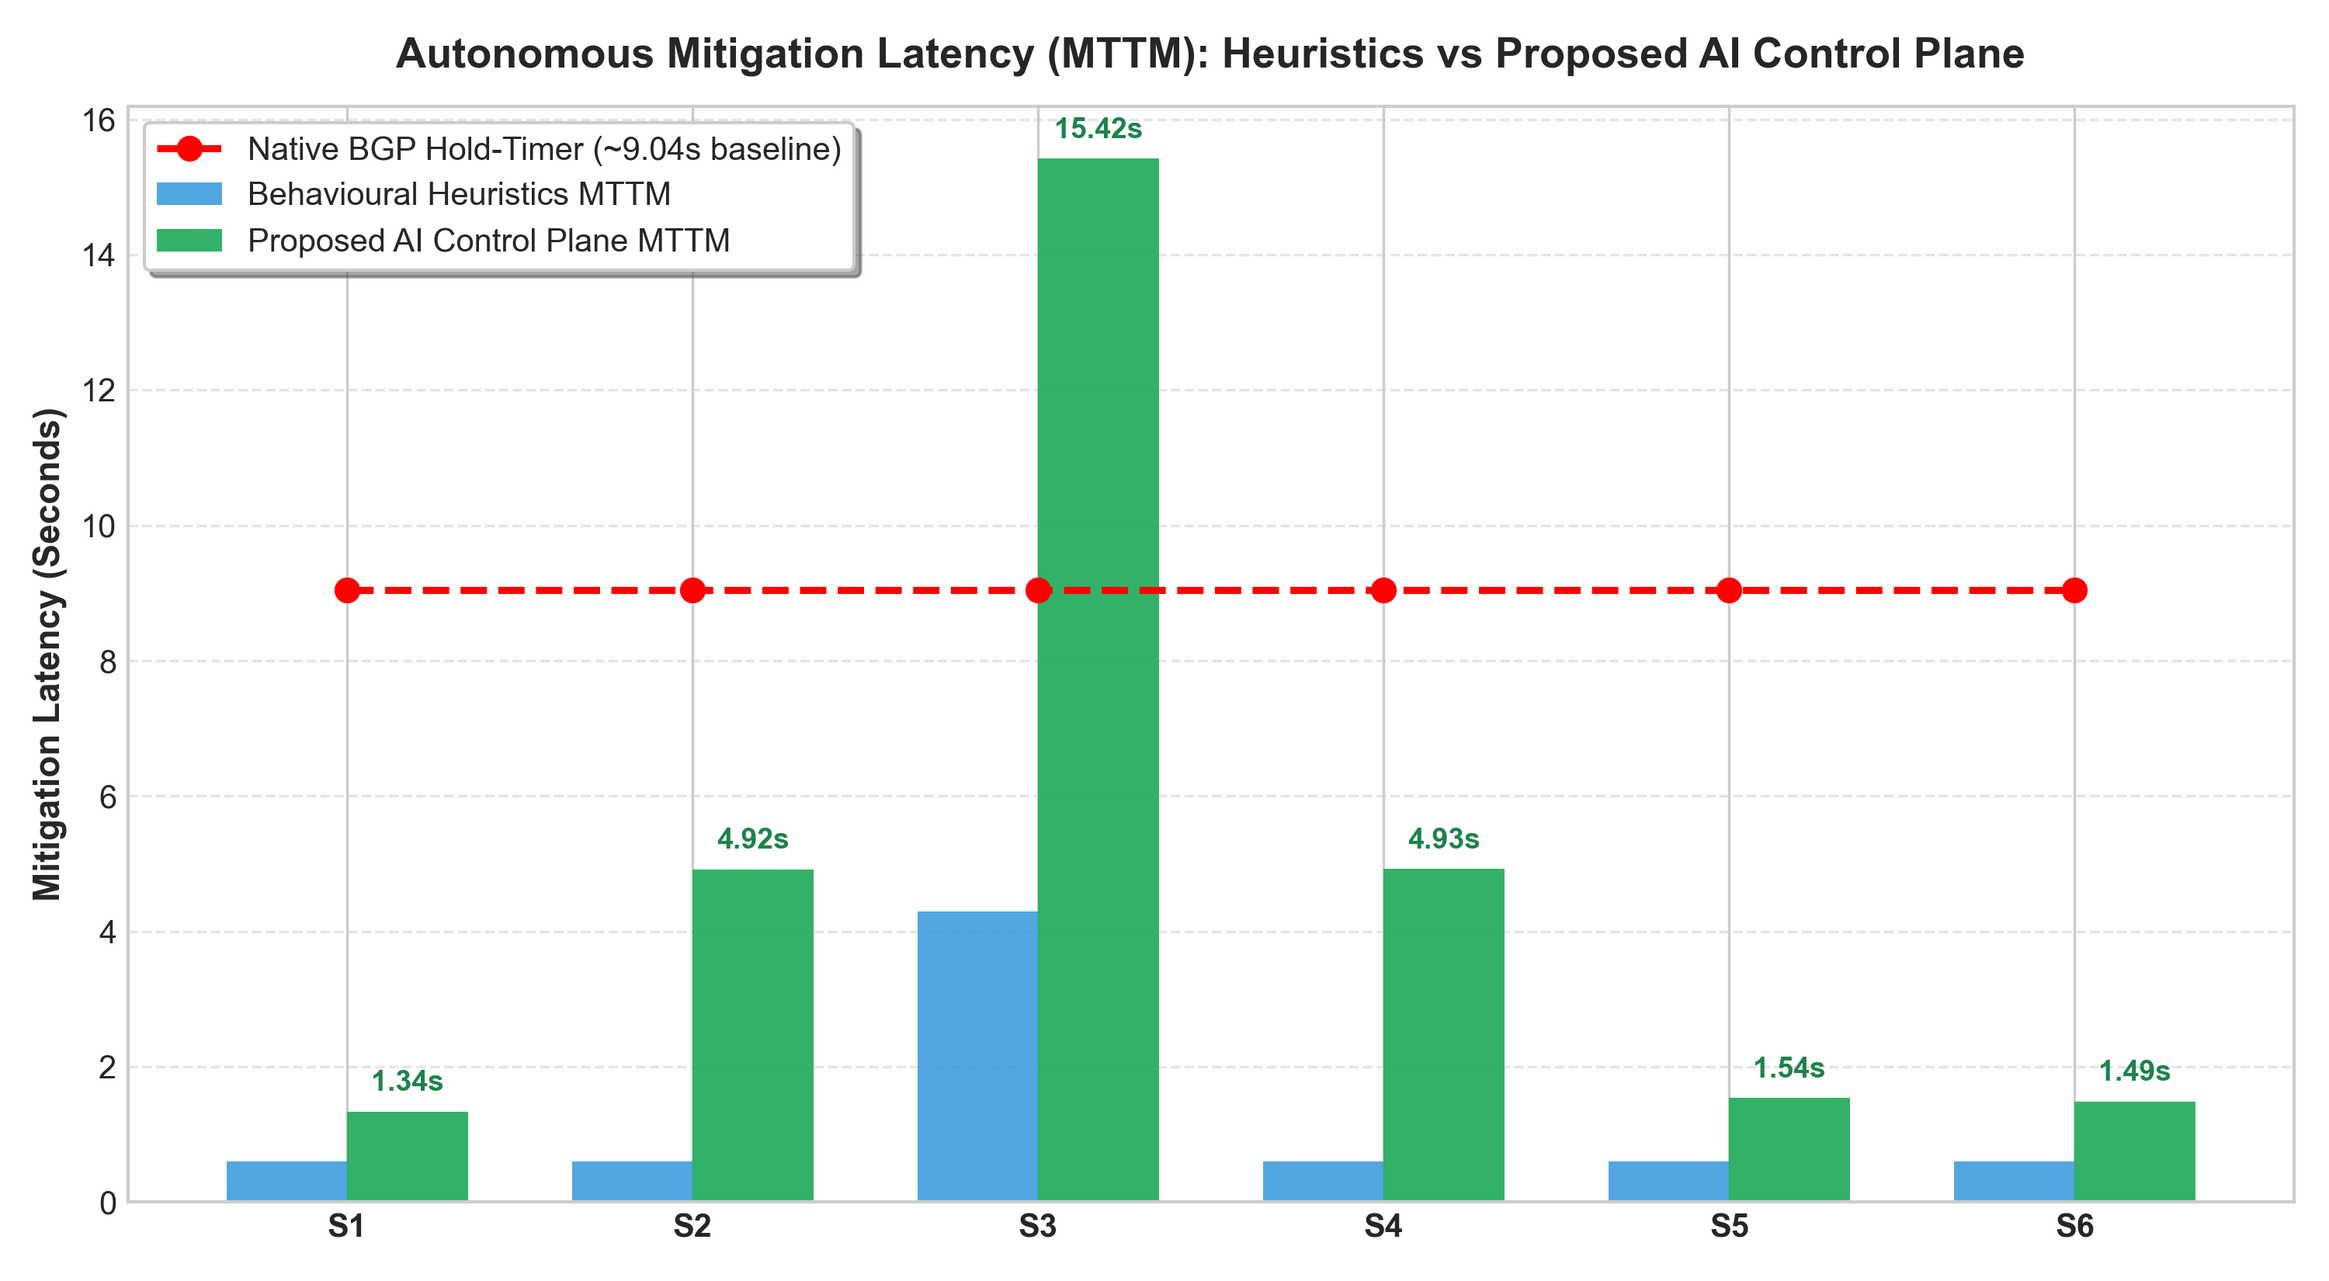
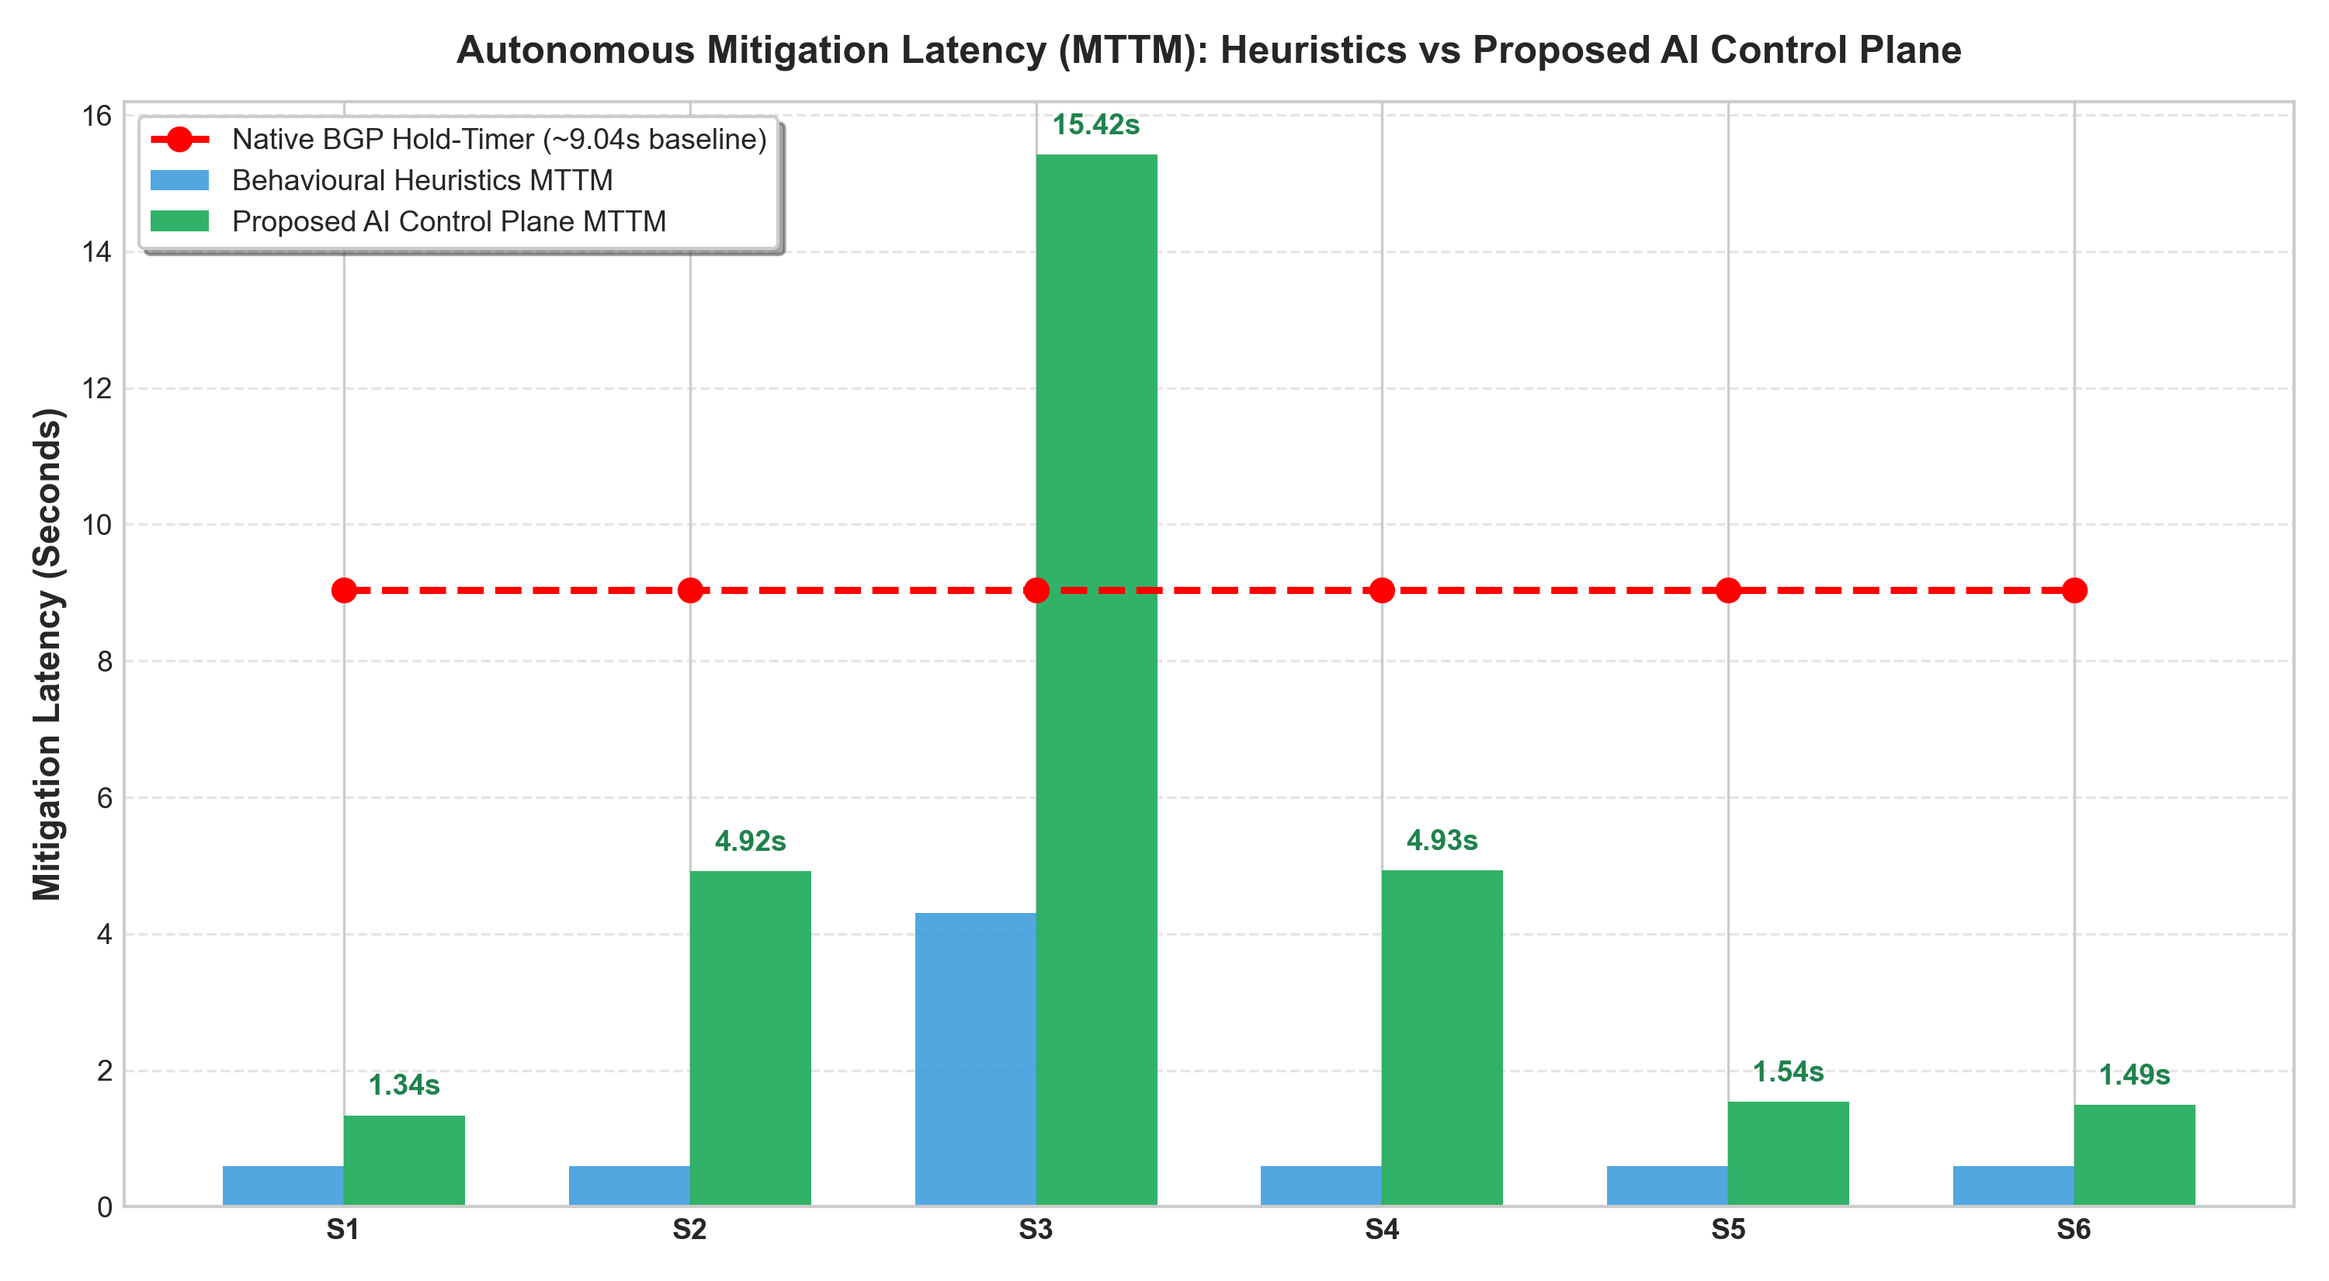
Visualizations: Expand figure suite to 6 publication-quality charts covering trust radar, feature importance, convergence distribution, and policy state machine

diff --git a/scripts/plot_attack_evaluation.py b/scripts/plot_attack_evaluation.py
@@ -1,9 +1,12 @@
 """
-Publication-Quality Comparative Visualizations for Attack Benchmarks.
-Generates:
+Comprehensive Publication Figure Generator for AI-Enhanced BGP.
+Generates 6 Publication-Quality Figures for Academic & Technical Reports:
 1. Data Plane Packet Delivery Ratio (PDR) Preservation under Attacks (S1-S6).
-2. Mitigation Latency (MTTM) across Configurations.
-3. Multi-Metric Benchmark Comparison Radar/Grouped Bar Plot.
+2. Mitigation Latency (MTTM) across Configurations (S1-S6 vs BGP Hold-Timer).
+3. ML Feature Importance Breakdown (Random Forest Gini Impurity).
+4. Multi-Factor Behavioral Trust Model Decomposition (Radar Profile across Anomaly Tiers).
+5. Baseline Protocol Convergence Latency Distribution (Cold-Start, Recovery, Withdrawal).
+6. 4-Tier Autonomous Policy State Machine & Action Mapping.
 """
 
 import json
@@ -15,23 +18,21 @@ import numpy as np
 RESULTS_DIR = os.path.abspath(os.path.join(os.path.dirname(__file__), "..", "experiments", "results"))
 FIGURES_DIR = os.path.join(RESULTS_DIR, "figures")
 
-def generate_plots():
-    os.makedirs(FIGURES_DIR, exist_ok=True)
-    json_path = os.path.join(RESULTS_DIR, "attack_evaluation_results.json")
-    
-    if not os.path.exists(json_path):
-        print(f"[!] Results JSON not found at {json_path}")
-        return
+def set_plot_style():
+    plt.style.use('seaborn-v0_8-whitegrid' if 'seaborn-v0_8-whitegrid' in plt.style.available else 'default')
+    plt.rcParams.update({
+        'font.size': 10,
+        'axes.labelsize': 11,
+        'axes.titlesize': 12,
+        'xtick.labelsize': 9,
+        'ytick.labelsize': 9,
+        'legend.fontsize': 9,
+        'figure.titlesize': 13
+    })
 
-    with open(json_path, "r", encoding="utf-8") as f:
-        scenarios = json.load(f)
-
+def plot_pdr_preservation(scenarios):
+    """Figure 1: Packet Delivery Ratio (PDR) Preservation."""
     labels = [s["scenario_id"] for s in scenarios]
-    scenario_titles = [s["scenario_name"] for s in scenarios]
-    
-    # -------------------------------------------------------------------------
-    # Plot 1: Packet Delivery Ratio (PDR) Preservation
-    # -------------------------------------------------------------------------
     pdr_std = [s["standard_bgp"]["pdr_percent"] for s in scenarios]
     pdr_rpki = [s["rpki_rov"]["pdr_percent"] for s in scenarios]
     pdr_heur = [s["heuristics"]["pdr_percent"] for s in scenarios]
@@ -40,58 +41,240 @@ def generate_plots():
     x = np.arange(len(labels))
     width = 0.20
 
-    plt.style.use('seaborn-v0_8-whitegrid' if 'seaborn-v0_8-whitegrid' in plt.style.available else 'default')
     fig, ax = plt.subplots(figsize=(11, 5.5))
-    
-    r1 = ax.bar(x - 1.5*width, pdr_std, width, label="Standard BGP (RFC)", color="#e74c3c", alpha=0.90)
-    r2 = ax.bar(x - 0.5*width, pdr_rpki, width, label="BGP + RPKI ROV (RFC 6811)", color="#f39c12", alpha=0.90)
-    r3 = ax.bar(x + 0.5*width, pdr_heur, width, label="Behavioural Heuristics", color="#3498db", alpha=0.90)
-    r4 = ax.bar(x + 1.5*width, pdr_ai, width, label="Proposed AI Control Plane (Live)", color="#27ae60", alpha=0.95)
+    ax.bar(x - 1.5*width, pdr_std, width, label="Standard BGP (RFC)", color="#e74c3c", alpha=0.90)
+    ax.bar(x - 0.5*width, pdr_rpki, width, label="BGP + RPKI ROV (RFC 6811)", color="#f39c12", alpha=0.90)
+    ax.bar(x + 0.5*width, pdr_heur, width, label="Behavioural Heuristics", color="#3498db", alpha=0.90)
+    ax.bar(x + 1.5*width, pdr_ai, width, label="Proposed AI Control Plane (Live)", color="#27ae60", alpha=0.95)
 
-    ax.set_ylabel("Packet Delivery Ratio (%)", fontsize=11, fontweight="bold")
-    ax.set_title("Data Plane PDR Preservation Under BGP Routing Attacks (Scenarios S1–S6)", fontsize=13, fontweight="bold", pad=12)
+    ax.set_ylabel("Packet Delivery Ratio (%)", fontweight="bold")
+    ax.set_title("Data Plane PDR Preservation Under BGP Routing Attacks (Scenarios S1–S6)", fontweight="bold", pad=12)
     ax.set_xticks(x)
-    ax.set_xticklabels([f"{s['scenario_id']}\n{s['scenario_name'][:18]}..." if len(s['scenario_name']) > 18 else f"{s['scenario_id']}\n{s['scenario_name']}" for s in scenarios], fontsize=9, fontweight="bold")
+    ax.set_xticklabels([f"{s['scenario_id']}\n{s['scenario_name'][:18]}..." if len(s['scenario_name']) > 18 else f"{s['scenario_id']}\n{s['scenario_name']}" for s in scenarios], fontweight="bold")
     ax.set_ylim(0, 115)
-    ax.legend(loc="upper left", frameon=True, shadow=True, fontsize=10)
+    ax.legend(loc="upper left", frameon=True, shadow=True)
     ax.grid(axis="y", linestyle="--", alpha=0.5)
 
     plt.tight_layout()
-    plot1_path = os.path.join(FIGURES_DIR, "comparative_pdr_evaluation.png")
-    plt.savefig(plot1_path, dpi=300)
+    out_path = os.path.join(FIGURES_DIR, "comparative_pdr_evaluation.png")
+    plt.savefig(out_path, dpi=300)
     plt.close()
+    return out_path
 
-    # -------------------------------------------------------------------------
-    # Plot 2: Mean Time to Mitigate (MTTM) Comparison
-    # -------------------------------------------------------------------------
-    fig, ax2 = plt.subplots(figsize=(10, 5.5))
+def plot_mttm_latency(scenarios):
+    """Figure 2: Mitigation Latency (MTTM)."""
+    labels = [s["scenario_id"] for s in scenarios]
+    fig, ax = plt.subplots(figsize=(10, 5.5))
     mttm_std = [9.04] * len(scenarios)
     mttm_heur = [s["heuristics"]["mttm_sec"] for s in scenarios]
     mttm_ai = [s["proposed_ai"]["mttm_sec"] for s in scenarios]
 
-    x2 = np.arange(len(labels))
-    w2 = 0.35
+    x = np.arange(len(labels))
+    w = 0.35
 
-    ax2.bar(x2 - 0.5*w2, mttm_heur, w2, label="Behavioural Heuristics MTTM", color="#3498db", alpha=0.85)
-    ax2.bar(x2 + 0.5*w2, mttm_ai, w2, label="Proposed AI Control Plane MTTM", color="#27ae60", alpha=0.95)
-    ax2.plot(x2, mttm_std, "r--o", label="Native BGP Hold-Timer (~9.04s baseline)", linewidth=2.2, markersize=7)
+    ax.bar(x - 0.5*w, mttm_heur, w, label="Behavioural Heuristics MTTM", color="#3498db", alpha=0.85)
+    ax.bar(x + 0.5*w, mttm_ai, w, label="Proposed AI Control Plane MTTM", color="#27ae60", alpha=0.95)
+    ax.plot(x, mttm_std, "r--o", label="Native BGP Hold-Timer (~9.04s baseline)", linewidth=2.2, markersize=7)
 
-    ax2.set_ylabel("Mitigation Latency (Seconds)", fontsize=11, fontweight="bold")
-    ax2.set_title("Autonomous Mitigation Latency (MTTM): Heuristics vs Proposed AI Control Plane", fontsize=13, fontweight="bold", pad=12)
-    ax2.set_xticks(x2)
-    ax2.set_xticklabels(labels, fontweight="bold", fontsize=10)
-    ax2.legend(loc="upper left", frameon=True, shadow=True, fontsize=10)
-    ax2.grid(axis="y", linestyle="--", alpha=0.5)
+    ax.set_ylabel("Mitigation Latency (Seconds)", fontweight="bold")
+    ax.set_title("Autonomous Mitigation Latency (MTTM): Heuristics vs Proposed AI Control Plane", fontweight="bold", pad=12)
+    ax.set_xticks(x)
+    ax.set_xticklabels(labels, fontweight="bold")
+    ax.legend(loc="upper left", frameon=True, shadow=True)
+    ax.grid(axis="y", linestyle="--", alpha=0.5)
 
     for i, v in enumerate(mttm_ai):
-        ax2.text(i + 0.5*w2, v + 0.3, f"{v:.2f}s", ha="center", fontweight="bold", fontsize=9, color="#1e824c")
+        ax.text(i + 0.5*w, v + 0.3, f"{v:.2f}s", ha="center", fontweight="bold", fontsize=9, color="#1e824c")
 
     plt.tight_layout()
-    plot2_path = os.path.join(FIGURES_DIR, "comparative_mttm_latency.png")
-    plt.savefig(plot2_path, dpi=300)
+    out_path = os.path.join(FIGURES_DIR, "comparative_mttm_latency.png")
+    plt.savefig(out_path, dpi=300)
     plt.close()
+    return out_path
 
-    print(f"[+] High-resolution comparative figures regenerated:\n  - {plot1_path}\n  - {plot2_path}")
+def plot_feature_importances():
+    """Figure 3: Random Forest Feature Importance Breakdown."""
+    feat_json = os.path.join(RESULTS_DIR, "model_training_evaluation.json")
+    if not os.path.exists(feat_json):
+        return None
+    with open(feat_json, "r", encoding="utf-8") as f:
+        data = json.load(f)
+
+    importances = data.get("random_forest", {}).get("feature_importances", {})
+    if not importances:
+        return None
+
+    # Sort descending
+    sorted_items = sorted(importances.items(), key=lambda x: x[1], reverse=True)
+    feats = [item[0].replace("_", " ").title() for item in sorted_items]
+    scores = [item[1] * 100 for item in sorted_items]
+
+    fig, ax = plt.subplots(figsize=(10, 5.5))
+    y_pos = np.arange(len(feats))
+    colors = plt.cm.viridis(np.linspace(0.85, 0.25, len(feats)))
+
+    bars = ax.barh(y_pos, scores, color=colors, alpha=0.90, edgecolor="black", linewidth=0.6)
+    ax.set_yticks(y_pos)
+    ax.set_yticklabels(feats, fontweight="bold")
+    ax.invert_yaxis()  # top feature on top
+    ax.set_xlabel("Gini Feature Importance (%)", fontweight="bold")
+    ax.set_title("Random Forest Feature Importance Distribution (10 BGP Telemetry Features)", fontweight="bold", pad=12)
+    ax.grid(axis="x", linestyle="--", alpha=0.5)
+
+    for i, bar in enumerate(bars):
+        w = bar.get_width()
+        ax.text(w + 0.5, bar.get_y() + bar.get_height()/2, f"{w:.1f}%", va="center", fontweight="bold", fontsize=9)
+
+    plt.tight_layout()
+    out_path = os.path.join(FIGURES_DIR, "feature_importance_breakdown.png")
+    plt.savefig(out_path, dpi=300)
+    plt.close()
+    return out_path
+
+def plot_trust_radar():
+    """Figure 4: Multi-Factor Behavioral Trust Model Radar Decomposition."""
+    categories = ['Origin\nStability', 'AS-Path\nIntegrity', 'Flap\nQuiescence', 'Prefix\nSpecificity', 'Neighbor\nDiversity', 'Calibrated\nML Trust']
+    N = len(categories)
+    angles = [n / float(N) * 2 * np.pi for n in range(N)]
+    angles += angles[:1]
+
+    # Scores across 4 operational states
+    normal_scores = [1.0, 1.0, 1.0, 1.0, 1.0, 0.98]
+    normal_scores += normal_scores[:1]
+
+    flap_scores = [1.0, 1.0, 0.20, 1.0, 1.0, 0.40]
+    flap_scores += flap_scores[:1]
+
+    leak_scores = [1.0, 0.0, 1.0, 1.0, 0.5, 0.05]
+    leak_scores += leak_scores[:1]
+
+    hijack_scores = [0.0, 0.0, 0.8, 0.4, 0.5, 0.01]
+    hijack_scores += hijack_scores[:1]
+
+    fig, ax = plt.subplots(figsize=(8, 7), subplot_kw=dict(polar=True))
+    ax.set_theta_offset(np.pi / 2)
+    ax.set_theta_direction(-1)
+
+    plt.xticks(angles[:-1], categories, fontweight="bold", fontsize=9)
+    ax.set_rlabel_position(0)
+    plt.yticks([0.2, 0.4, 0.6, 0.8, 1.0], ["0.2", "0.4", "0.6", "0.8", "1.0"], color="grey", size=8)
+    plt.ylim(0, 1.1)
+
+    # Plot each anomaly tier
+    ax.plot(angles, normal_scores, linewidth=2, linestyle='solid', label='Normal Route (Trust = 0.99)', color='#27ae60')
+    ax.fill(angles, normal_scores, '#27ae60', alpha=0.15)
+
+    ax.plot(angles, flap_scores, linewidth=2, linestyle='solid', label='Route Flapping (Trust = 0.76 -> LP 80)', color='#f39c12')
+    ax.fill(angles, flap_scores, '#f39c12', alpha=0.15)
+
+    ax.plot(angles, leak_scores, linewidth=2, linestyle='solid', label='Route Leak (Trust = 0.46 -> LP 50)', color='#e67e22')
+    ax.fill(angles, leak_scores, '#e67e22', alpha=0.15)
+
+    ax.plot(angles, hijack_scores, linewidth=2, linestyle='solid', label='Prefix Hijack (Trust = 0.23 -> LP 0 + no-export)', color='#c0392b')
+    ax.fill(angles, hijack_scores, '#c0392b', alpha=0.20)
+
+    plt.title("Multi-Factor Behavioral Trust Decomposition Across Routing Anomaly Tiers", fontweight="bold", pad=20)
+    plt.legend(loc='upper right', bbox_to_anchor=(0.1, 0.1), frameon=True, shadow=True)
+
+    plt.tight_layout()
+    out_path = os.path.join(FIGURES_DIR, "behavioral_trust_radar.png")
+    plt.savefig(out_path, dpi=300)
+    plt.close()
+    return out_path
+
+def plot_baseline_convergence():
+    """Figure 5: Baseline BGP Protocol Latency Breakdown."""
+    json_path = os.path.join(RESULTS_DIR, "baseline_summary.json")
+    if not os.path.exists(json_path):
+        return None
+    with open(json_path, "r", encoding="utf-8") as f:
+        data = json.load(f)
+
+    metrics = ["Cold-Start\nConvergence", "Route Recovery\n(Re-announcement)", "Route Withdrawal\n(Hold-Timer Expiry)"]
+    means = [
+        data.get("cold_start_convergence", {}).get("mean", 5.46),
+        data.get("route_recovery_latency", {}).get("mean", 1.39),
+        data.get("route_withdrawal_latency", {}).get("mean", 9.04)
+    ]
+    stds = [
+        data.get("cold_start_convergence", {}).get("std", 0.04),
+        data.get("route_recovery_latency", {}).get("std", 0.04),
+        data.get("route_withdrawal_latency", {}).get("std", 0.11)
+    ]
+
+    fig, ax = plt.subplots(figsize=(9, 5))
+    x_pos = np.arange(len(metrics))
+    colors = ['#3498db', '#2ecc71', '#e74c3c']
+
+    bars = ax.bar(x_pos, means, yerr=stds, capsize=6, color=colors, alpha=0.85, width=0.45, edgecolor="black", linewidth=0.8)
+    ax.set_ylabel("Latency (Seconds)", fontweight="bold")
+    ax.set_title("Standard BGP Control-Plane Convergence & Withdrawal Latencies (FRR 10.2.1)", fontweight="bold", pad=12)
+    ax.set_xticks(x_pos)
+    ax.set_xticklabels(metrics, fontweight="bold")
+    ax.grid(axis="y", linestyle="--", alpha=0.5)
+
+    for bar in bars:
+        h = bar.get_height()
+        ax.text(bar.get_x() + bar.get_width()/2, h + 0.3, f"{h:.2f}s", ha="center", fontweight="bold", fontsize=10)
+
+    plt.tight_layout()
+    out_path = os.path.join(FIGURES_DIR, "baseline_convergence_distribution.png")
+    plt.savefig(out_path, dpi=300)
+    plt.close()
+    return out_path
+
+def plot_policy_state_machine():
+    """Figure 6: 4-Tier Autonomous Policy Action & Hysteresis Thresholds."""
+    fig, ax = plt.subplots(figsize=(11, 4.5))
+
+    # Trust Score Spectrum [0.0 to 1.0]
+    gradient = np.linspace(0, 1, 500).reshape(1, -1)
+    ax.imshow(gradient, aspect='auto', cmap='RdYlGn', extent=[0, 1, 0, 1], alpha=0.75)
+
+    # Threshold Division Lines
+    ax.axvline(0.25, color='black', linestyle='--', linewidth=2)
+    ax.axvline(0.55, color='black', linestyle='--', linewidth=2)
+    ax.axvline(0.80, color='black', linestyle='--', linewidth=2)
+    ax.axvline(0.85, color='blue', linestyle=':', linewidth=2) # Hysteresis recovery line
+
+    # Annotate Tiers
+    ax.text(0.125, 0.5, "TIER 4: QUARANTINE\n\nTrust < 0.25\nLocalPref 0 + no-export\n(Prefix Hijacks)", ha='center', va='center', fontweight='bold', fontsize=9, bbox=dict(boxstyle="round,pad=0.5", fc="white", ec="black", alpha=0.85))
+    ax.text(0.40, 0.5, "TIER 3: HARD DEPRIORITIZE\n\n0.25 ≤ Trust < 0.55\nLocalPref 50\n(Route Leaks)", ha='center', va='center', fontweight='bold', fontsize=9, bbox=dict(boxstyle="round,pad=0.5", fc="white", ec="black", alpha=0.85))
+    ax.text(0.675, 0.5, "TIER 2: SOFT DEPRIORITIZE\n\n0.55 ≤ Trust < 0.80\nLocalPref 80\n(Flapping / Churn)", ha='center', va='center', fontweight='bold', fontsize=9, bbox=dict(boxstyle="round,pad=0.5", fc="white", ec="black", alpha=0.85))
+    ax.text(0.925, 0.5, "TIER 1: NORMAL BASELINE\n\nTrust ≥ 0.85\nLocalPref 100\n(Normal Routes)", ha='center', va='center', fontweight='bold', fontsize=9, bbox=dict(boxstyle="round,pad=0.5", fc="white", ec="black", alpha=0.85))
+
+    ax.set_xlim(0, 1)
+    ax.set_ylim(0, 1)
+    ax.set_yticks([])
+    ax.set_xlabel("Continuous Behavioral Trust Score", fontweight="bold", fontsize=11)
+    ax.set_title("Autonomous 4-Tier Policy Mapping & Hysteresis Thresholds (Δ = 0.05)", fontweight="bold", pad=12)
+
+    plt.tight_layout()
+    out_path = os.path.join(FIGURES_DIR, "policy_tier_state_machine.png")
+    plt.savefig(out_path, dpi=300)
+    plt.close()
+    return out_path
+
+def generate_all_figures():
+    os.makedirs(FIGURES_DIR, exist_ok=True)
+    set_plot_style()
+    json_path = os.path.join(RESULTS_DIR, "attack_evaluation_results.json")
+    
+    with open(json_path, "r", encoding="utf-8") as f:
+        scenarios = json.load(f)
+
+    generated = []
+    generated.append(plot_pdr_preservation(scenarios))
+    generated.append(plot_mttm_latency(scenarios))
+    generated.append(plot_feature_importances())
+    generated.append(plot_trust_radar())
+    generated.append(plot_baseline_convergence())
+    generated.append(plot_policy_state_machine())
+
+    print("[+] All 6 publication-quality figures successfully generated in experiments/results/figures/:")
+    for p in generated:
+        if p:
+            print(f"  - {os.path.basename(p)}")
 
 if __name__ == "__main__":
-    generate_plots()
+    generate_all_figures()
